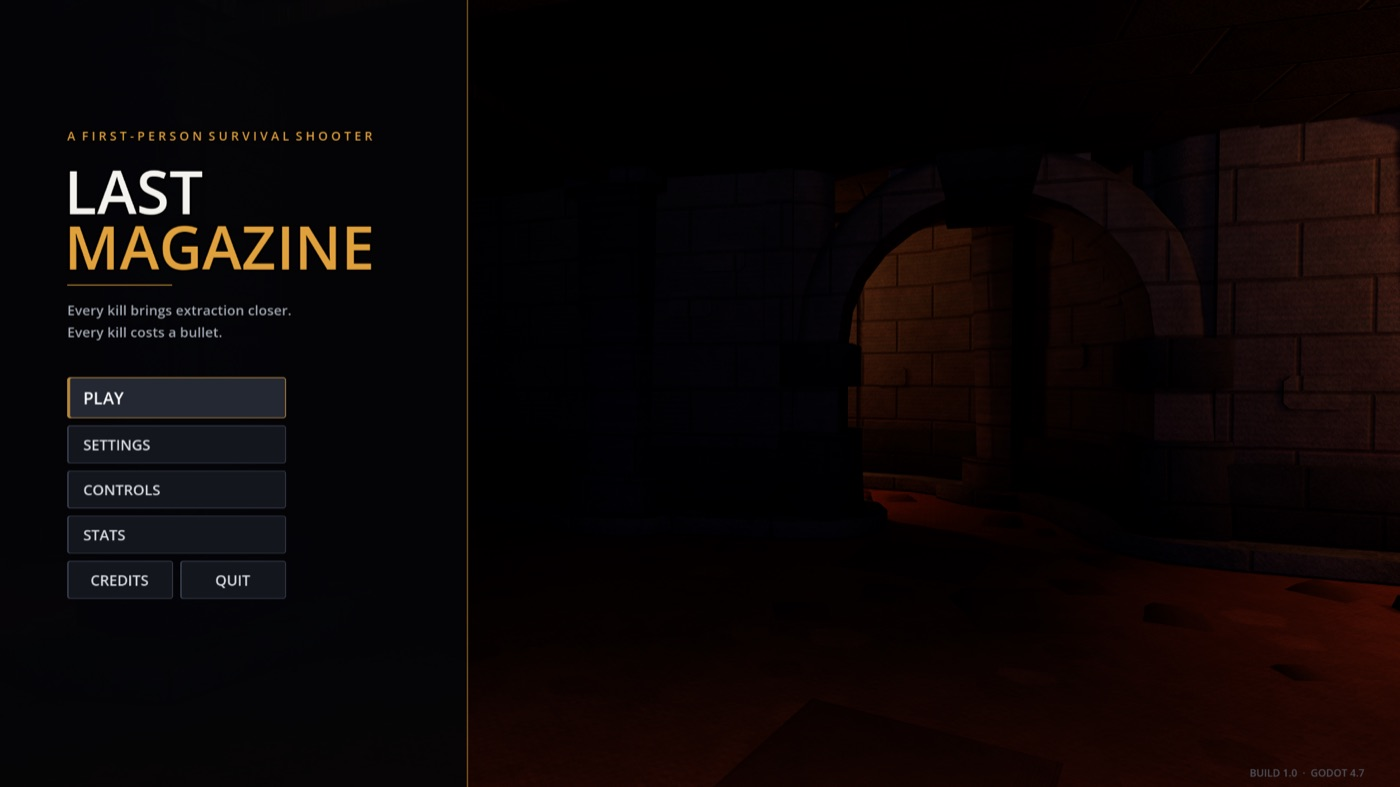
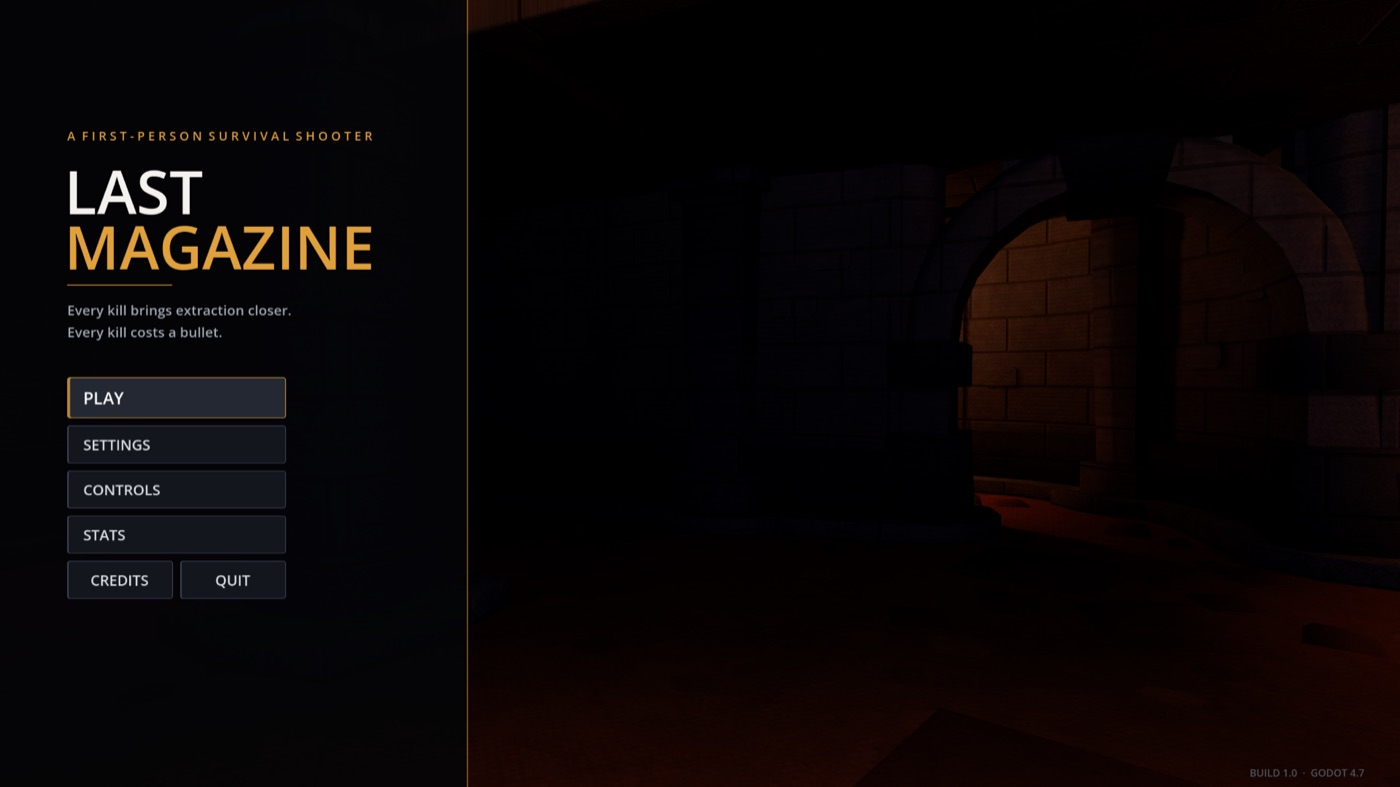
docs: AI contribution names the MCP-built feature honestly

diff --git a/docs/ai-contribution.md b/docs/ai-contribution.md
@@ -3,12 +3,29 @@
 Required by the assignment: *"Develop at least one feature through MCP and
 identify the assistant's scene or script changes."*
 
-This project was developed with **Claude Code** (Claude Opus 5) acting as an AI
-assistant through the terminal, driven by the
+This project was developed with **Claude Code** (an AI coding assistant) working
+in the terminal, driven by the
 [Claude Code Game Studios](https://github.com/Donchitos/Claude-Code-Game-Studios)
-agent framework. Claude Code operates over a tool protocol (file read/write,
-shell, git) — the same integration model MCP defines for exposing tools to an
-assistant.
+agent framework. Most of the game was written through Claude Code's own file,
+shell and git tools, **not** through MCP.
+
+**The feature built through MCP is Headshots.** It was built with the
+[godot-ai](https://github.com/hi-godot/godot-ai) MCP server (add-on v4.2.3,
+`addons/godot_ai/`) connected to the live Godot editor. Every change below was
+made by an MCP tool call, not by editing files directly:
+
+| MCP tool | Target | Change |
+|---|---|---|
+| `script_patch` | `src/gameplay/weapon/weapon.gd` | `headshot` signal, `headshot_multiplier` (2x); the hit path asks `Zombie.is_head_hit()` before applying damage |
+| `script_patch` | `src/gameplay/zombie/zombie.gd` | `is_head_hit()` (top 16% of the capsule height) and the `head_fraction` export |
+| `scene_open`, `node_create`, `node_set_property` (x17), `scene_save` | `src/ui/hud.tscn` | New `HeadshotLabel` node: centred above the crosshair, red, outlined, mouse-ignoring, hidden by default |
+| `script_patch` | `src/ui/hud.gd` | `show_headshot()` and its fade; hidden on the results screen; HEADSHOTS stat on the results screen |
+| `script_patch` | `src/core/game.gd` | `headshots` counter, reset on restart, counted only while the round is live |
+
+The MCP's own diagnostics caught one mistake along the way: the first
+`zombie.gd` patch used `head_fraction` before the second patch declared it
+(`Parse Error: Identifier "head_fraction" not declared`), and the next patch
+resolved it. Commit: `feat: headshots — built through the godot-ai MCP`.
 
 ---
 
